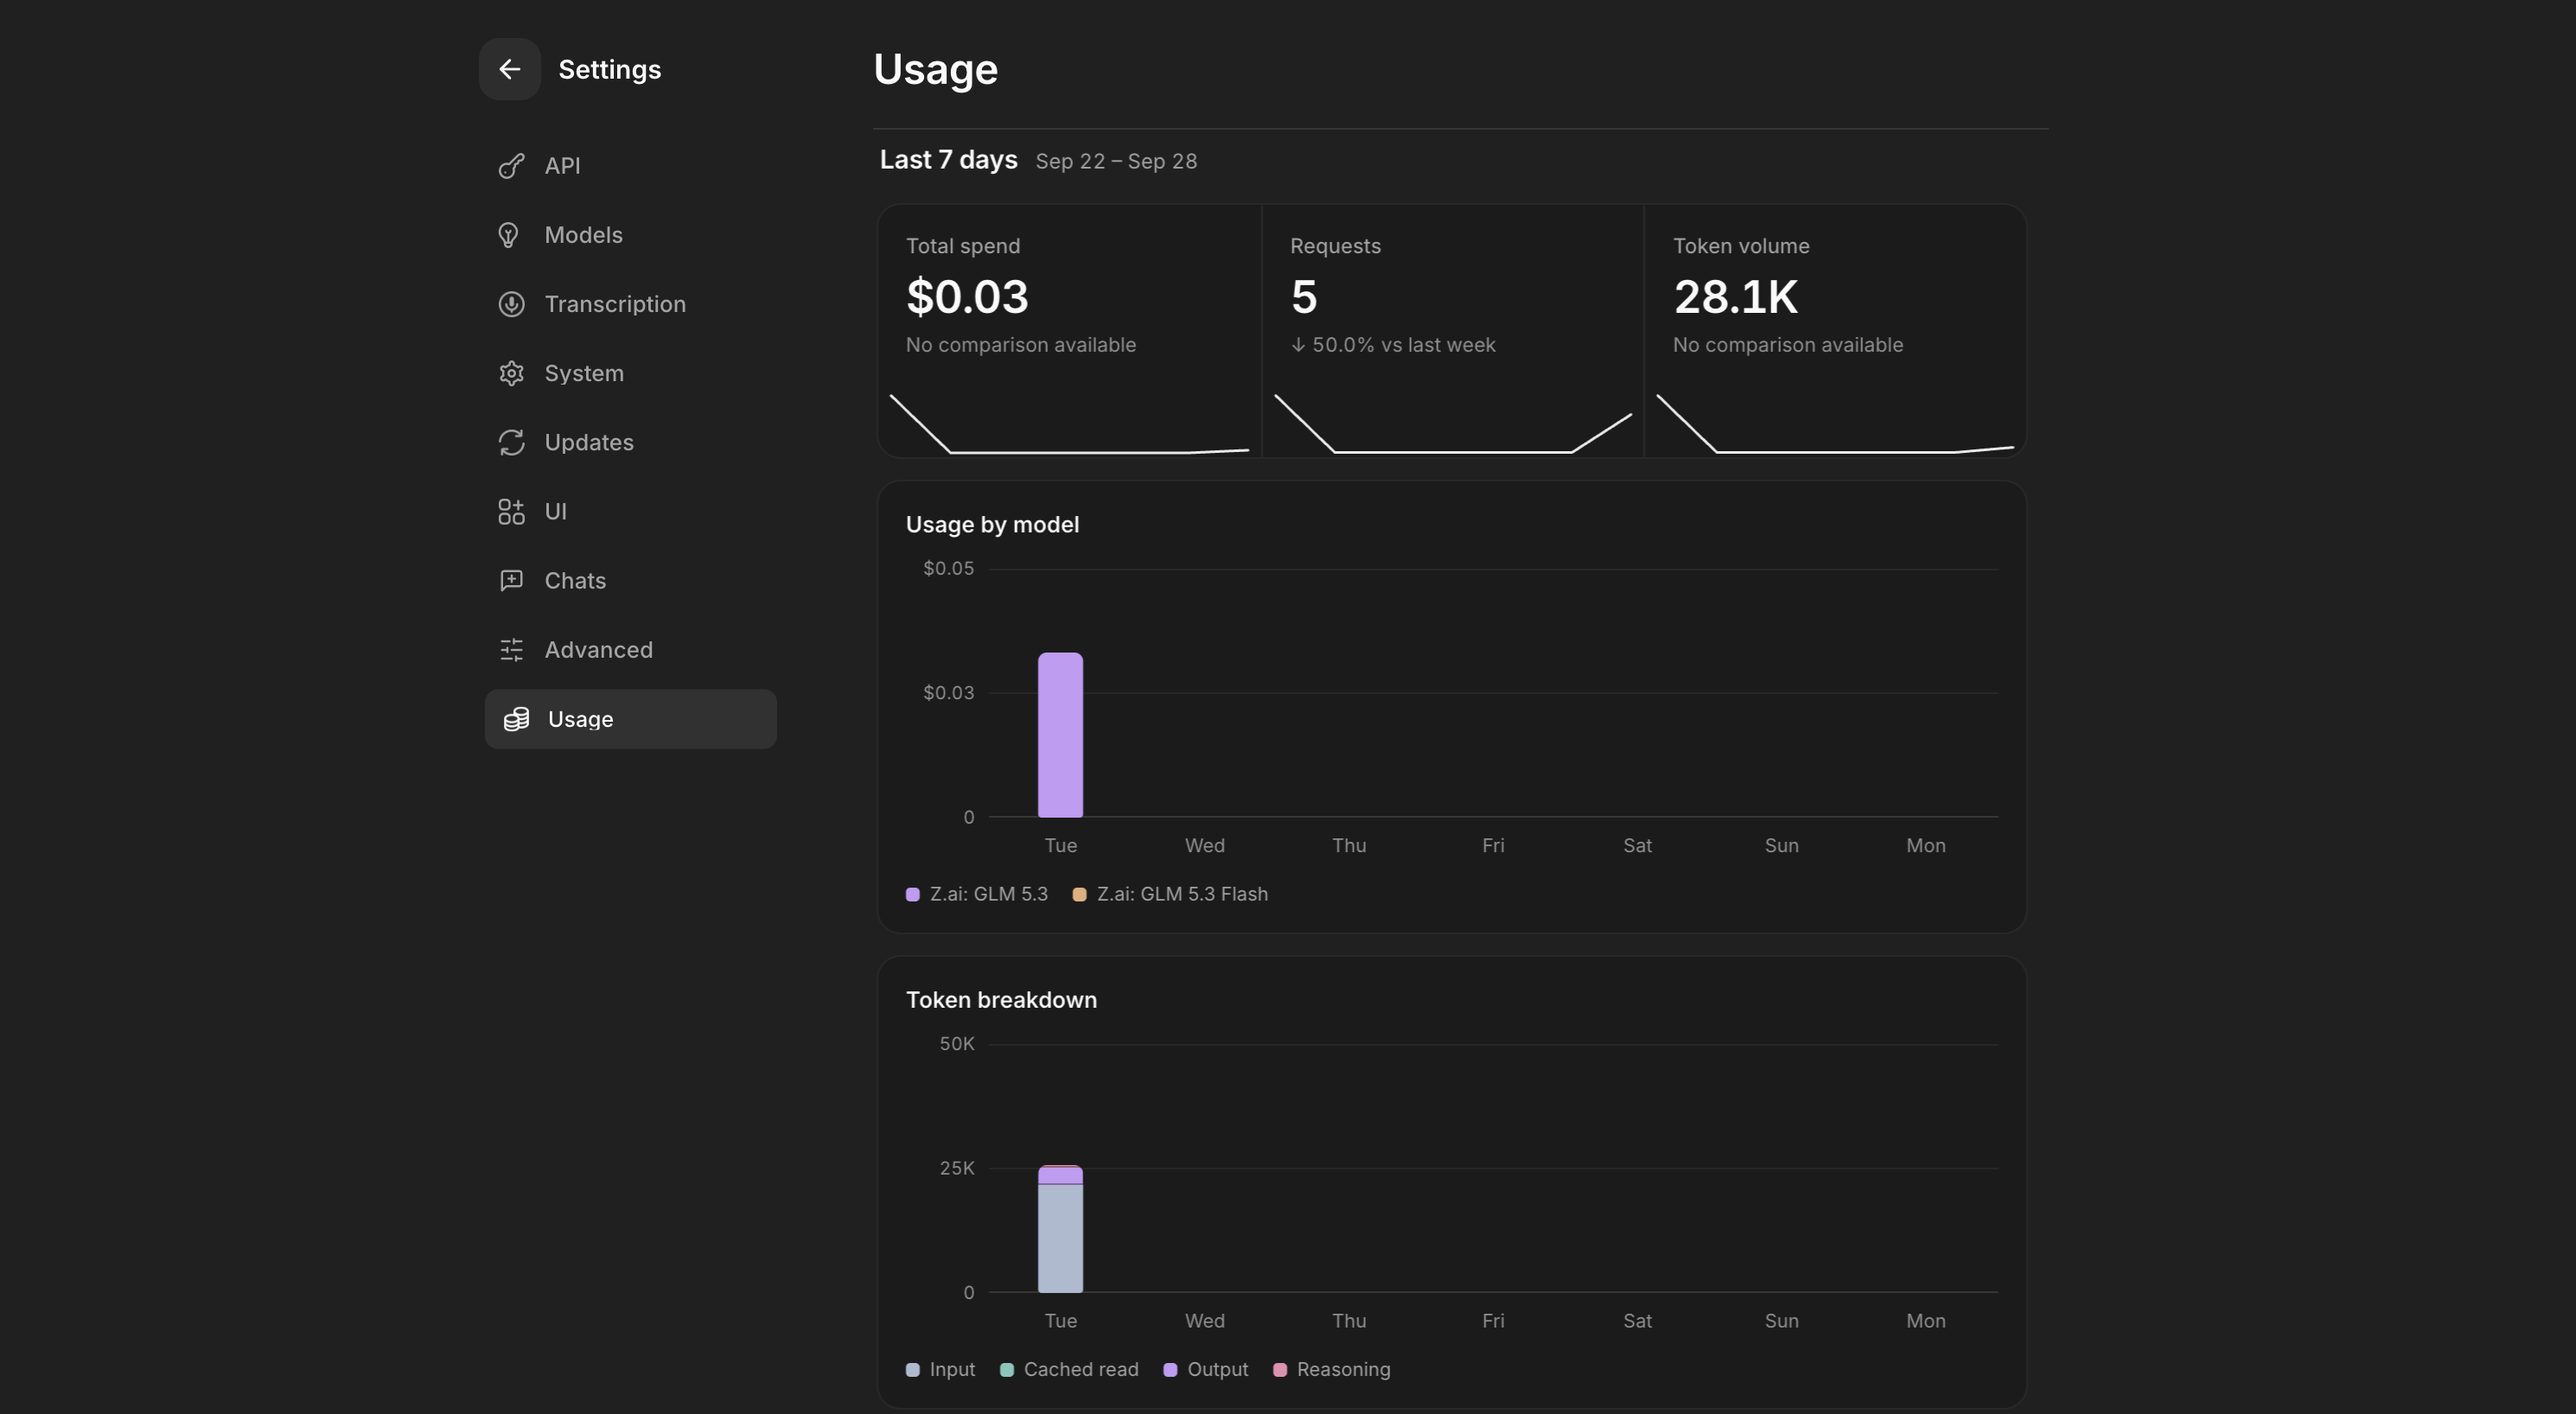
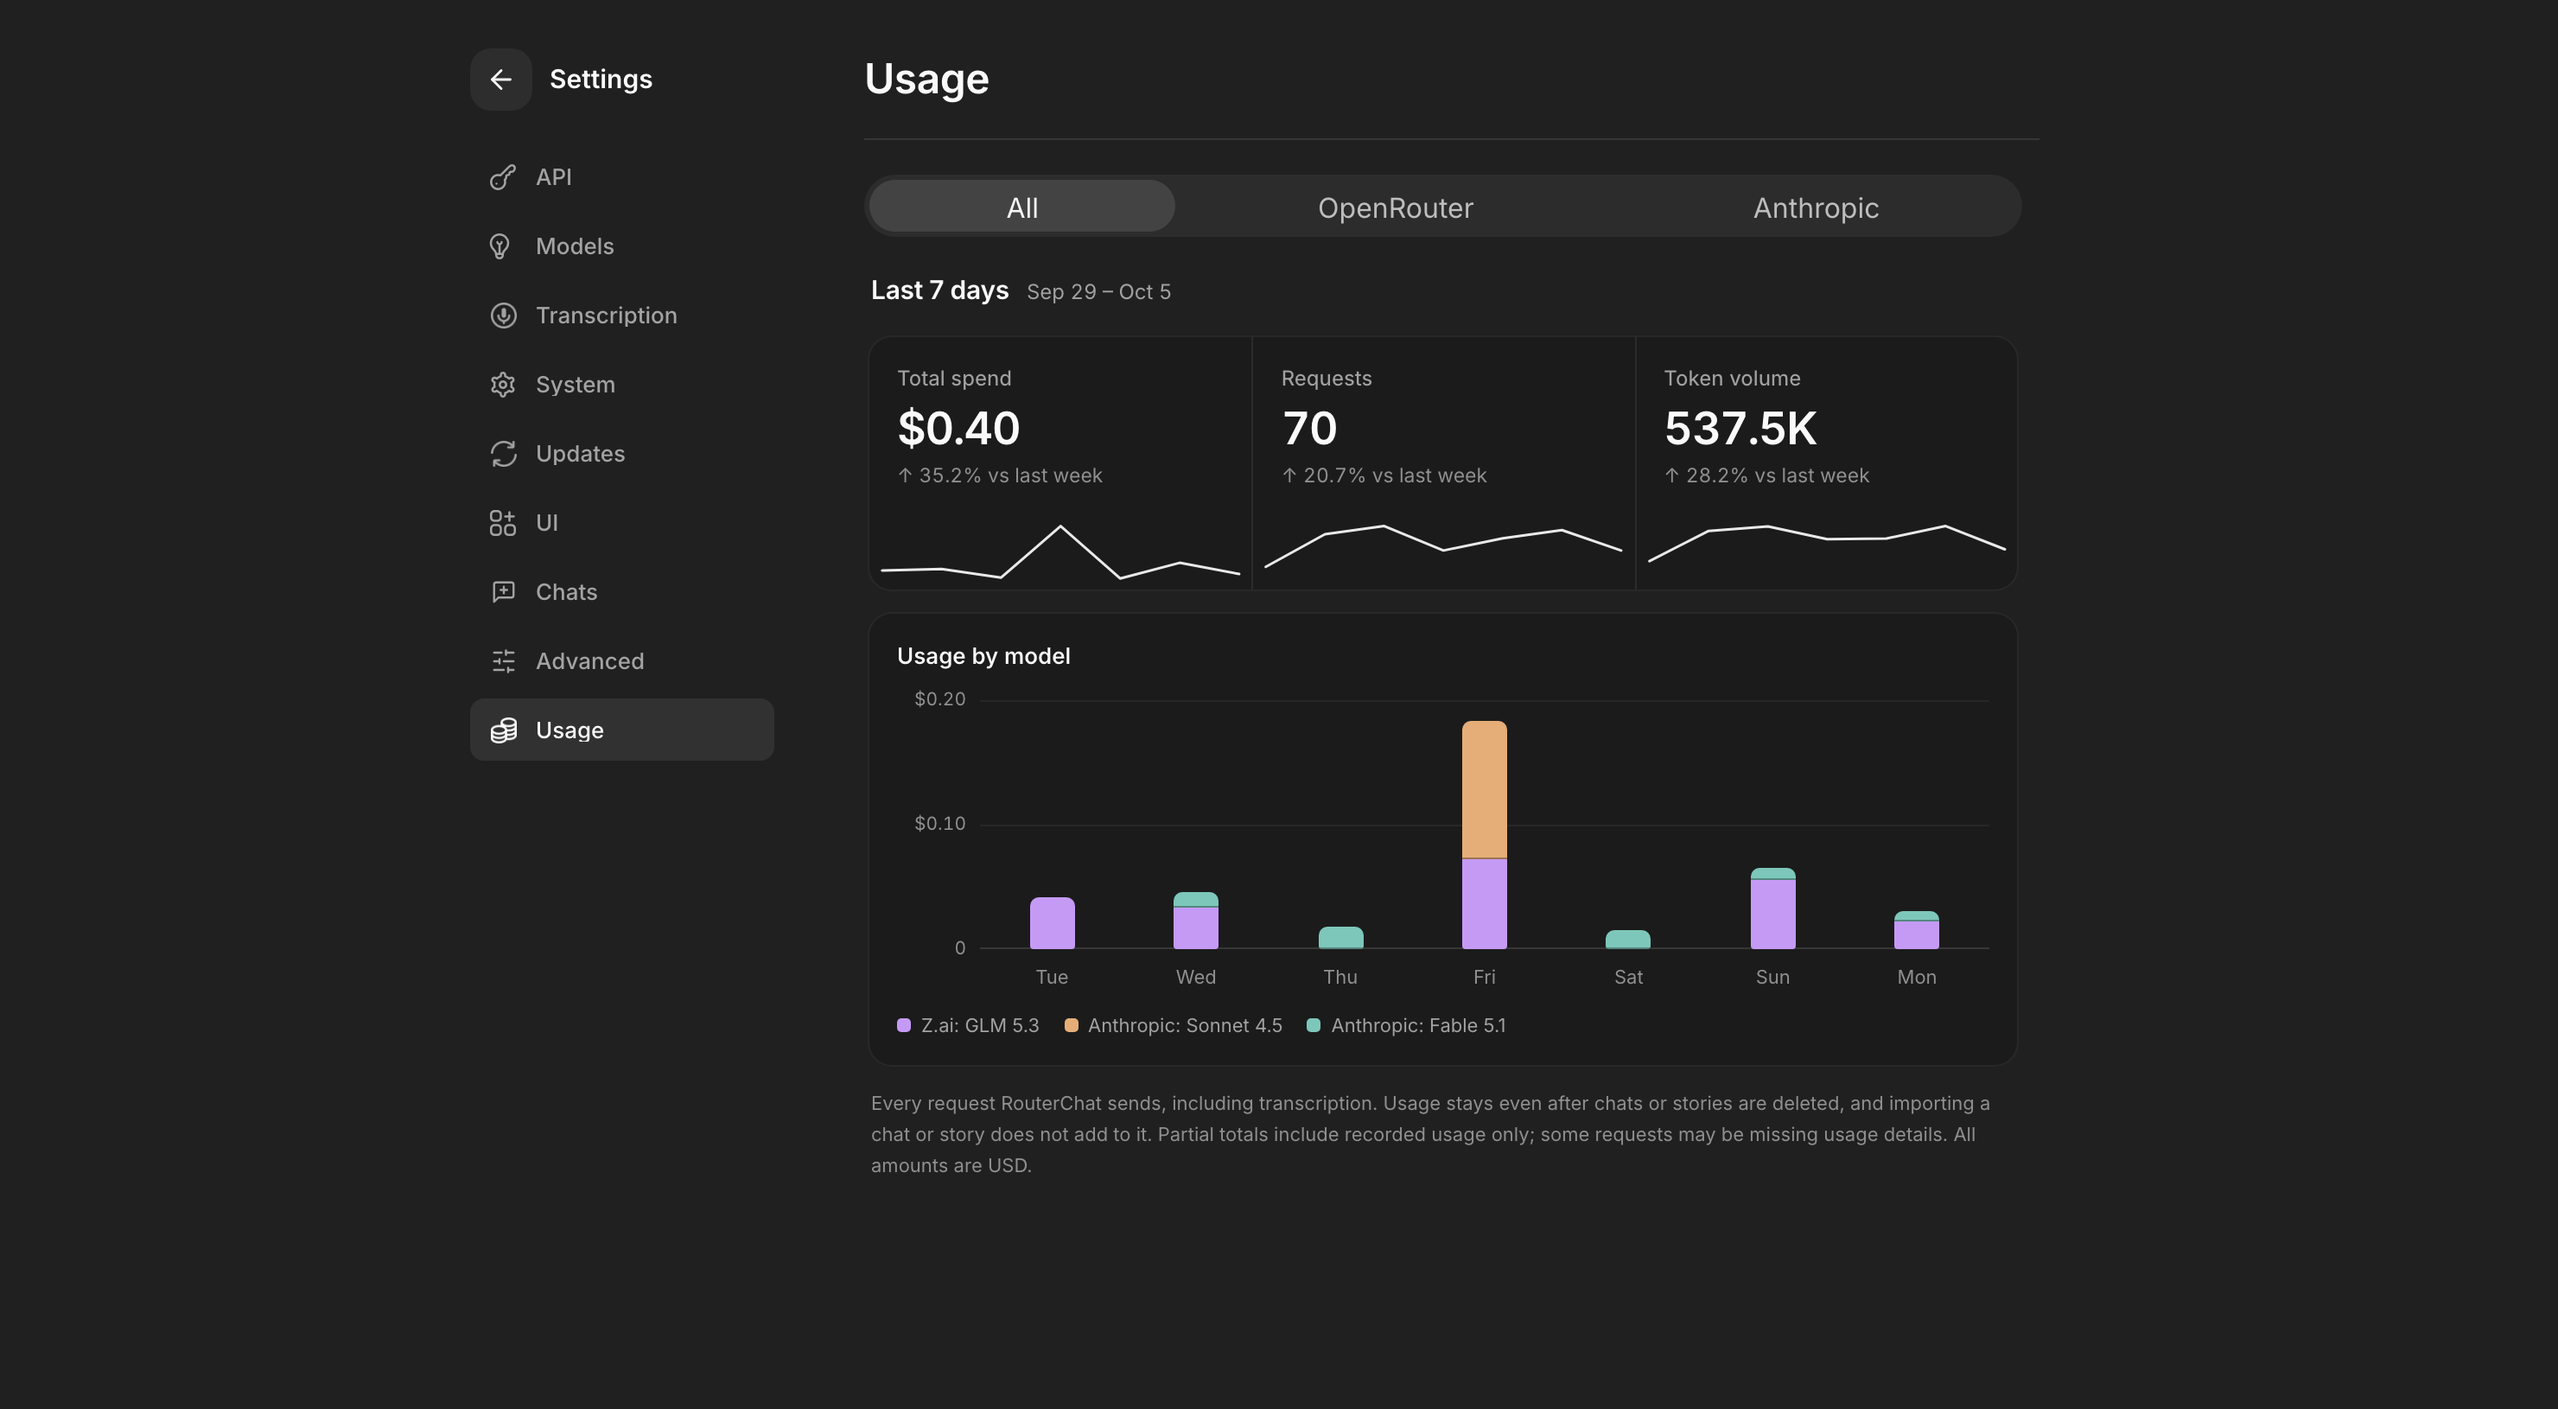
new mocked screenshots and a note in the readme

diff --git a/README.md b/README.md
@@ -90,6 +90,8 @@ When you send a prompt or attachment, that data goes to the provider you picked,
 
 ## Media
 
+> All screenshots below use mocked data. The chats, story, lorebook, models, and usage numbers are made up for the screenshots.
+
 Chat Mode
 
 <img width="1000" alt="RouterChat Chat Mode" src="media/chatmode.png" />
